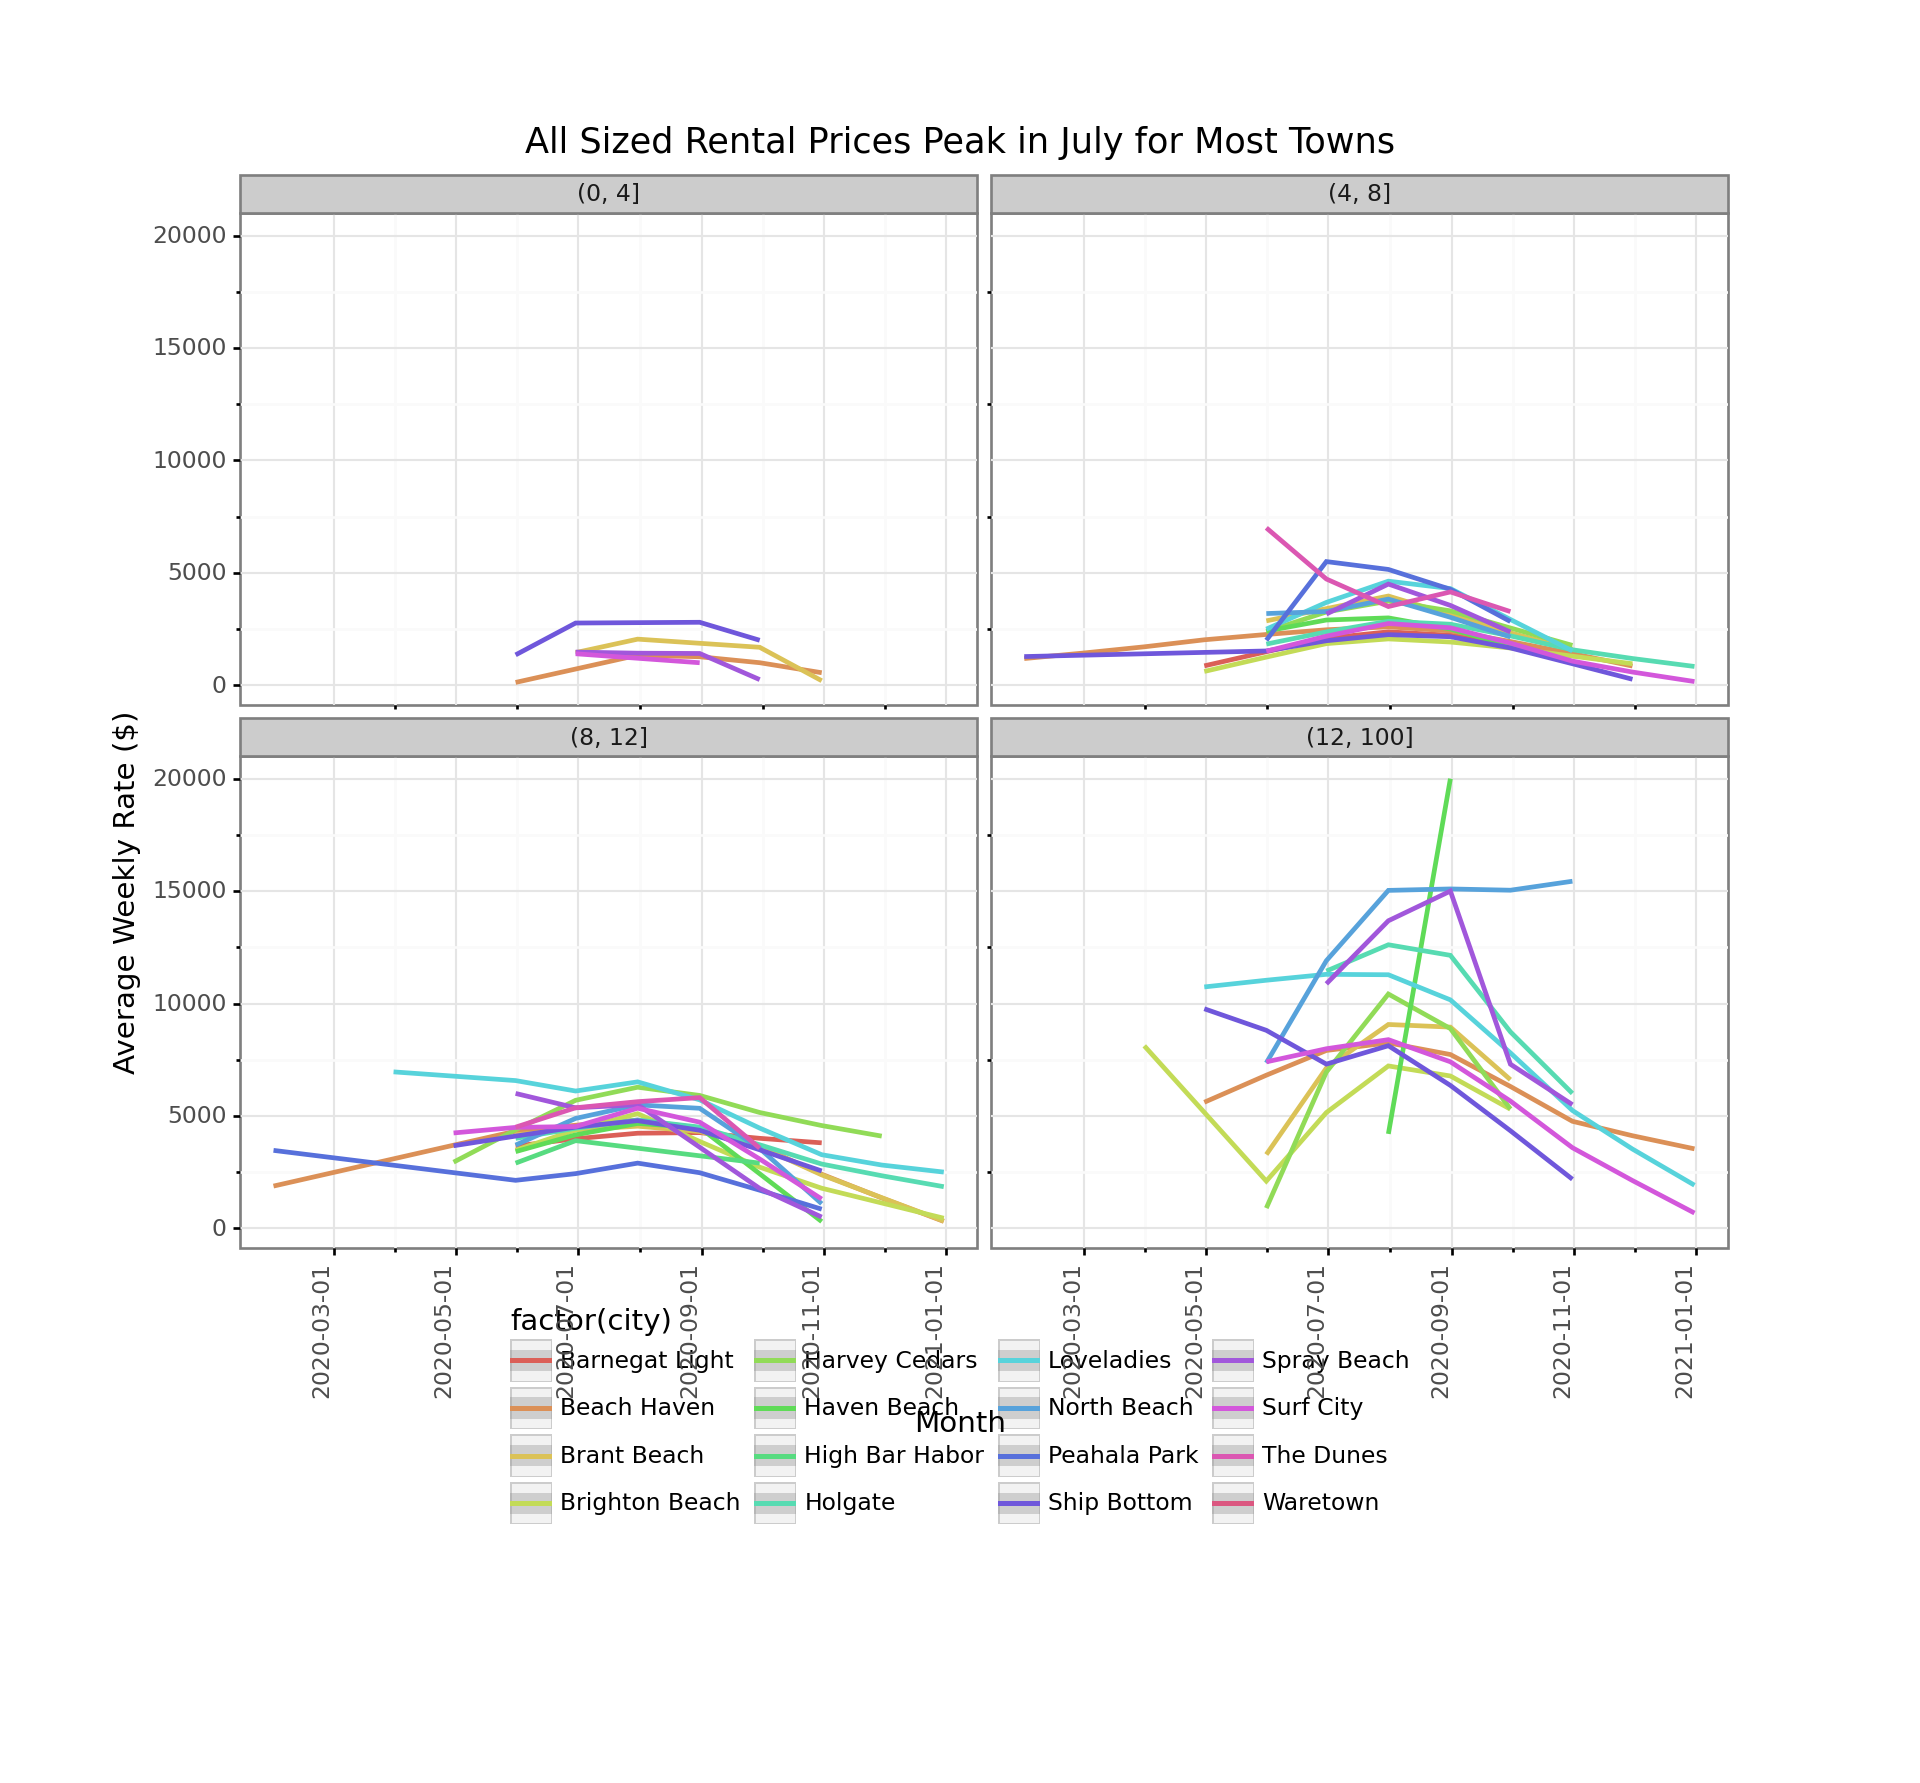
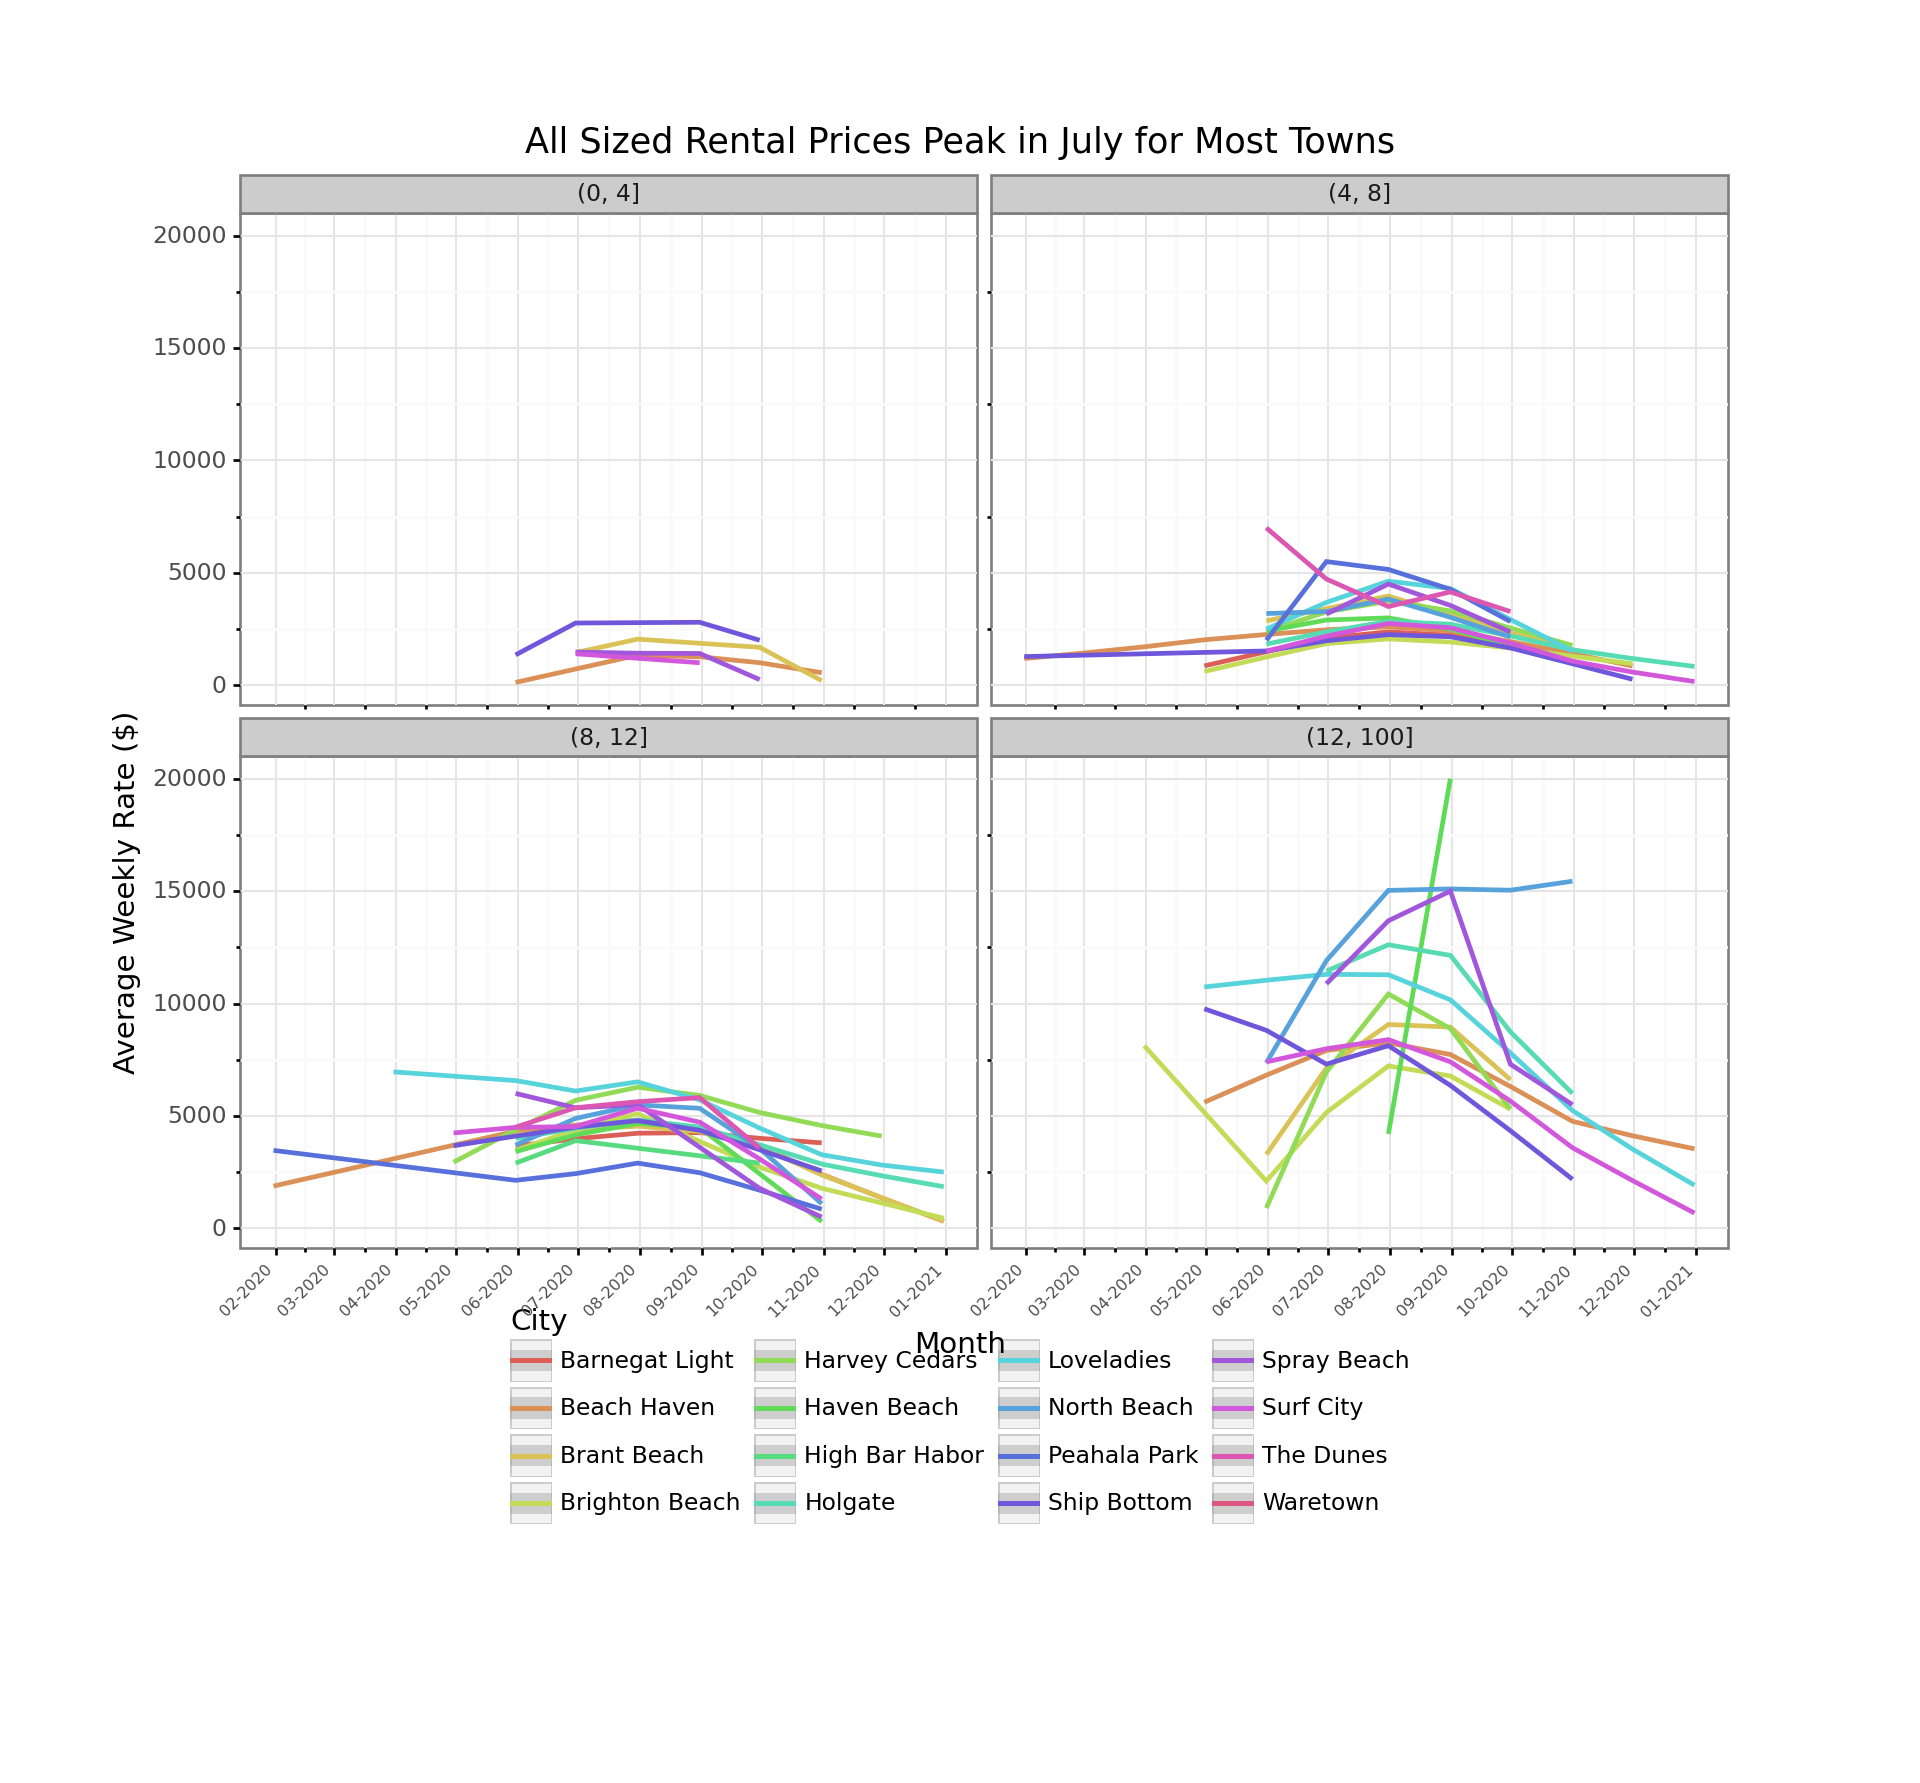
chart and text edits

Changed region(s): [[0.4062, 0.7095, 0.875, 0.802], [0.125, 0.7095, 0.375, 0.7712]]

diff --git a/content/post/2020-06-07-scraping-long-beach-island-summer-rentals-with-python.html b/content/post/2020-06-07-scraping-long-beach-island-summer-rentals-with-python.html
@@ -4,7 +4,7 @@ author: David Lucey
 date: '2020-06-07'
 slug: scraping-long-beach-island-summer-rentals-with-python
 categories: ["Python", "Code-Oriented"]
-tags: ["pandas", "reticulate"]
+tags: ["pandas", "reticulate", "BeautifulSoup"]
 ---
 
 <script src="/rmarkdown-libs/header-attrs/header-attrs.js"></script>
@@ -23,16 +23,19 @@ reticulate::use_condaenv(
   required = TRUE
   )</code></pre>
 <pre class="r"><code># Install Python packages
-lapply(c(&quot;bs4&quot;, &quot;requests&quot;), function(package) {
+lapply(c(&quot;bs4&quot;, &quot;requests&quot;, &quot;plotnine&quot;, &quot;mizani&quot;), function(package) {
        conda_install(&quot;r-reticulate&quot;, package, pip = TRUE)
 })</code></pre>
 <div id="introduction" class="section level1">
 <h1>Introduction</h1>
-<p>In late May, Redwall recently visited its favorite family beach vacation spot, and was thinking that it was so nice, it would be fun go back again in August. We would like to know all of the available choices for the week without having to scroll through incomplete realtor websites. Maybe we would also like to monitor availability and prices on an ongoing basis going forward. Now that we are all set up with Python via <code>reticulate</code>, this seems like an opportunity to add a few new skills. When we started this mini-project, we hoped to use <code>datatable</code> as our main data frame in conjunction with the Python libraries like <code>BeautifulSoup</code> and data structures like dictionaries, but we soon learned that <code>datatable</code> doesn’t support dates yet. In <a href="https://redwallanalytics.com/2020/05/07/exploring-big-mt-cars-with-python-datatable-and-plotnine-part-1/">Exploring Big MT Cars with Python datatable-Part 1</a>, we had worked around the lack of reshaping capability and the inability to pipe into plots, but this really a deal breaker. As a result, though we were able to keep using <code>plotnine</code>, we were finally forced to get better with <code>pandas</code>.</p>
+<p>In late May, Redwall visited its favorite family beach vacation spot, and was thinking that it was so nice, it would be fun go back again in August. We would like to know all of the available choices for the week without having to scroll through incomplete realty websites. Maybe we would also like to monitor availability and prices on an ongoing basis going forward. Now that we are all set up with Python via <code>reticulate</code>, this seems like an opportunity to add a few new skills.</p>
+<p>When we started this mini-project, we hoped to use <code>datatable</code> as our main data frame in conjunction with the Python libraries like <code>BeautifulSoup</code> and data structures not available in R, like dictionaries. We soon learned that <code>datatable</code> doesn’t support dates yet. In <a href="https://redwallanalytics.com/2020/05/07/exploring-big-mt-cars-with-python-datatable-and-plotnine-part-1/">Exploring Big MT Cars with Python datatable-Part 1</a>, we noted that <code>datatable</code> is still in alpha stage, and worked around the lack of reshaping capability and the inability to pipe our data directly into plots, but this really a deal breaker for this project. As a result, though we were able to keep using <code>plotnine</code>, we were finally forced to get better with <code>pandas</code>.</p>
 <pre class="python"><code>from bs4 import BeautifulSoup
 import requests
 import itertools
 import plotnine as p9
+from mizani.breaks import date_breaks
+from mizani.formatters import date_format
 import pandas as pd
 import numpy as np
 import re
@@ -156,7 +159,7 @@ def get_dict(listing):
   # Convert to dictionary for return
   d[&#39;calendar&#39;] = calendar.to_dict()
   return d</code></pre>
-<p>When an element of a listing is not present, we were having breaks, so we put in exception handling for those cases. Although we think we have handled most of the likely errors in get_dict, the full scraping process takes a couple of hours, so we thought best to save to disc after each request. It took us a while how to figure this out, because it turns out not to be so staight-forward to save and append a json to disc. We were able to write to disc as txt as we do in <code>append_record</code> below.</p>
+<p>When an element of a listing is not present, we were having breaks, so we put in exception handling for those cases. Although we think we have handled most of the likely errors in get_dict, the full scraping process takes a couple of hours, so we thought best to save to disc after each request. It took us a while how to figure this out, because it turns out not to be so straight-forward to save and append a json to disc. We were able to write to disc as txt as we do in <code>append_record</code> below.</p>
 </div>
 <div id="scrape-all-listings" class="section level1">
 <h1>Scrape All Listings</h1>
@@ -187,7 +190,7 @@ for listing in listings:
     append_record(entry)
   except:
     print(listing_id + &#39; Failed&#39;)</code></pre>
-<p>Again, we wanted to avoid re-running the code, we are showing our saved data from disc. We load the saved data from our text file as a list of 1232 Python dictionaries. The dictionary for a sample listing of ‘464’ is shown in the chunk below. The attributes of the listing are deeply nested and not easy to filter and sort. However, we learned that it is easy to extract the desired elements using the dictionary keys, which we do in the <code>get_calendar</code> function below.</p>
+<p>Again, we wanted to avoid re-running the code, we are showing our saved data from disc. We load the saved data from our text file as a list of 1231 Python dictionaries. The dictionary for a sample listing of ‘464’ is shown in the chunk below. The attributes of the listing are deeply nested and not easy to filter and sort. However, we learned that it is easy to extract the desired elements using the dictionary keys, which we do in the <code>get_calendar</code> function below.</p>
 <pre class="python"><code># Load lbi.txt back into notebook as list of dictionaries
 filename = &#39;lbi.txt&#39;
 with open(path + filename) as fh: 
@@ -404,7 +407,7 @@ table[table.notnull()]</code></pre>
 </div>
 <div id="biggest-rental-towns-by-volume" class="section level1">
 <h1>Biggest Rental Towns by Volume</h1>
-<p>By far the most rental action is in the Beach Haven sections in July and August (shown in orange), but those sections also have more year-round availability than the the other towns. If the plan is to go with less than 8 people, there is not a lot of options. In fact, it was surprising to see that there was more available in the largest sleeps &gt;12 than the family of four category. As mentioned in our previous post about <code>plotnine</code>, the lack of support for <code>plotly</code> hovering is a bit of a detraction here, becuase it can be hard to tell which color denotes which city. This might mean we have to learn <code>seaborn</code> in the future, just as we have been forced to learn <code>pandas</code> for this post.</p>
+<p>By far the most rental action is in the Beach Haven sections in July and August (shown in orange), but those sections also have more year-round availability than the the other towns. If the plan is to go with less than 8 people, there is not a lot of options. In fact, it was surprising to see that there was more available in the largest sleeps &gt;12 than the family of four category. As mentioned in our previous post about <code>plotnine</code>, the lack of support for <code>plotly</code> hovering is a bit of a detraction here, because it can be hard to tell which color denotes which city. This might mean we have to learn <code>seaborn</code> in the future, just as we have been forced to learn <code>pandas</code> for this post.</p>
 <pre class="python"><code>filtered_data = data.set_index(&#39;date&#39;)[&#39;2020&#39;].groupby([pd.Grouper(freq=&#39;M&#39;), &#39;city&#39;, &#39;sleeps_bin&#39;])[&#39;rate&#39;].count().reset_index()
 (p9.ggplot(filtered_data,
       p9.aes(x = &#39;date&#39;, 
@@ -418,18 +421,19 @@ table[table.notnull()]</code></pre>
         subtitle = &#39;Listed from Smallest to Largest Sleep Capacity&#39;,
         x = &#39;Month&#39;,
         y = &#39;Monthly Rental Volume&#39;,
-        fill = &#39;Sleeps Bin&#39;
-        ) +
-      p9.theme(    
-        axis_text_x=p9.element_text(rotation=90, hjust=1),
+        color = &#39;Sleeps Bin&#39;
+        ) + 
+      p9.scale_x_datetime(breaks=date_breaks(&#39;1 month&#39;), labels=date_format(&#39;%m-%Y&#39;)) +
+      p9.theme(
+        axis_text_x=p9.element_text(rotation=45, size=6),
         subplots_adjust={&#39;bottom&#39;: 0.20},
-        figure_size=(10, 4), # inches
+        figure_size=(10, 3), # inches
         aspect_ratio=1/1.5,    # height:width
         legend_position=&#39;bottom&#39;,
         legend_direction=&#39;horizontal&#39;) +
       p9.facet_wrap(&#39;~sleeps_bin&#39;, ncol = 2)
 )</code></pre>
-<pre><code>## &lt;ggplot: (8794142833998)&gt;
+<pre><code>## &lt;ggplot: (8783089650566)&gt;
 ## 
 ## /Users/davidlucey/Library/r-miniconda/envs/r-reticulate/lib/python3.6/site-packages/plotnine/stats/smoothers.py:168: PlotnineWarning: Confidence intervals are not yet implementedfor lowess smoothings.
 ##   &quot;for lowess smoothings.&quot;, PlotnineWarning)</code></pre>
@@ -452,7 +456,7 @@ table[table.notnull()]</code></pre>
       fill = &#39;Status&#39;
       ) +
     p9.theme(    
-      axis_text_x=p9.element_text(rotation=90, hjust=1),
+      axis_text_x=p9.element_text(rotation=45, hjust=1),
       subplots_adjust={&#39;right&#39;: 0.75},
       figure_size=(10, 4), # inches
       aspect_ratio=1/1.5,    # height:width
@@ -460,13 +464,13 @@ table[table.notnull()]</code></pre>
       legend_direction=&#39;vertical&#39;) +
     p9.facet_wrap(&#39;~city&#39;)
 )</code></pre>
-<pre><code>## &lt;ggplot: (8794137333368)&gt;
+<pre><code>## &lt;ggplot: (8783087727645)&gt;
 ## 
 ## /Users/davidlucey/Library/r-miniconda/envs/r-reticulate/lib/python3.6/site-packages/plotnine/stats/stat_bin.py:93: PlotnineWarning: &#39;stat_bin()&#39; using &#39;bins = 104&#39;. Pick better value with &#39;binwidth&#39;.
 ##   warn(msg.format(params[&#39;bins&#39;]), PlotnineWarning)
 ## /Users/davidlucey/Library/r-miniconda/envs/r-reticulate/lib/python3.6/site-packages/plotnine/layer.py:360: PlotnineWarning: stat_bin : Removed 25 rows containing non-finite values.
 ##   data = self.stat.compute_layer(data, params, layout)</code></pre>
-<p><img src="/post/2020-06-07-scraping-long-beach-island-summer-rentals-with-python_files/figure-html/unnamed-chunk-4-1.png" width="100%" /></p>
+<p><img src="/post/2020-06-07-scraping-long-beach-island-summer-rentals-with-python_files/figure-html/rental-histogram-1.png" width="100%" /></p>
 </div>
 <div id="prices-for-booked-properties-peaking-in-july" class="section level1">
 <h1>Prices for Booked Properties Peaking in July</h1>
@@ -480,22 +484,23 @@ table[table.notnull()]</code></pre>
              )) +
       p9.geom_smooth() +
       p9.theme_bw() +
+      p9.scale_x_datetime(breaks=date_breaks(&#39;1 month&#39;), labels=date_format(&#39;%m-%Y&#39;)) +
       p9.labs(
         title = &quot;Prices for Available Rentals Falling Off Steadily After July&quot;,
         x = &#39;Month&#39;,
         y = &#39;Average Weekly Rate ($)&#39;,
-        fill = &#39;Sleep Bin&#39;
+        color = &#39;Sleep Bin&#39;
         ) +
       p9.facet_wrap(&#39;~status&#39;) +
       p9.theme(
-        axis_text_x=p9.element_text(rotation=90, hjust=1),
-        subplots_adjust={&#39;bottom&#39;: 0.30},
-        figure_size=(10, 4), # inches
-        aspect_ratio=1/1.5,    # height:width
+        axis_text_x=p9.element_text(rotation=45, hjust=1, size=6),
+        subplots_adjust={&#39;bottom&#39;: 0.20},
+        figure_size=(10, 3), # inches
+        aspect_ratio=1/1.4,    # height:width
         legend_position=&#39;bottom&#39;,
         legend_direction=&#39;horizontal&#39;)
 )</code></pre>
-<pre><code>## &lt;ggplot: (-9223363242708628697)&gt;
+<pre><code>## &lt;ggplot: (-9223363253765005550)&gt;
 ## 
 ## /Users/davidlucey/Library/r-miniconda/envs/r-reticulate/lib/python3.6/site-packages/plotnine/stats/smoothers.py:168: PlotnineWarning: Confidence intervals are not yet implementedfor lowess smoothings.
 ##   &quot;for lowess smoothings.&quot;, PlotnineWarning)</code></pre>
@@ -513,22 +518,23 @@ table[table.notnull()]</code></pre>
              )) +
       p9.geom_smooth() +
       p9.theme_bw() +
+      p9.scale_x_datetime(breaks=date_breaks(&#39;1 month&#39;), labels=date_format(&#39;%m-%Y&#39;)) +
       p9.labs(
         title = &quot;All Sized Rental Prices Peak in July for Most Towns&quot;,
         x = &#39;Month&#39;,
         y = &#39;Average Weekly Rate ($)&#39;,
-        fill = &#39;City&#39;
+        color = &#39;City&#39;
         ) +
       p9.facet_wrap(&#39;~sleeps_bin&#39;) +
       p9.theme(    
-        axis_text_x=p9.element_text(rotation=90, hjust=1),
+        axis_text_x=p9.element_text(rotation=45, hjust=1, size=6),
         subplots_adjust={&#39;bottom&#39;: 0.30},
         figure_size=(10, 4), # inches
         aspect_ratio=1/1.5,    # height:width
         legend_position=&#39;bottom&#39;,
         legend_direction=&#39;horizontal&#39;)
 )</code></pre>
-<pre><code>## &lt;ggplot: (-9223363242708687679)&gt;
+<pre><code>## &lt;ggplot: (-9223363253765005340)&gt;
 ## 
 ## /Users/davidlucey/Library/r-miniconda/envs/r-reticulate/lib/python3.6/site-packages/plotnine/stats/smoothers.py:168: PlotnineWarning: Confidence intervals are not yet implementedfor lowess smoothings.
 ##   &quot;for lowess smoothings.&quot;, PlotnineWarning)</code></pre>
